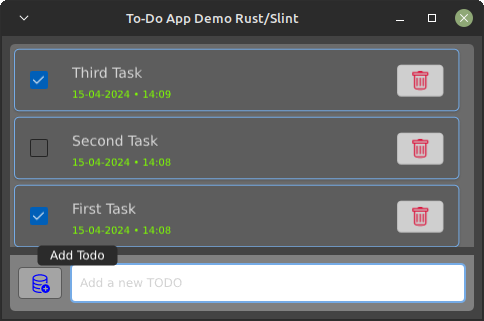
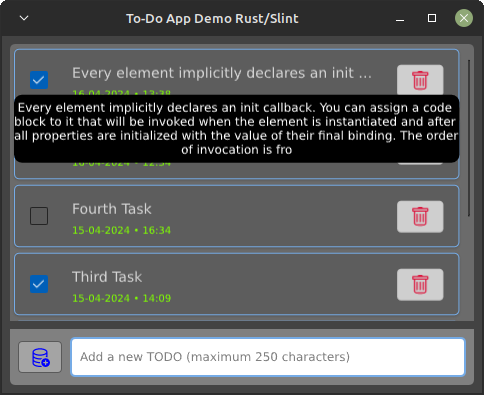
Add popup to see the overflowed text of the item
It is also modified:
- ScrollView viewport height
- created feature of the `callback_declare_put_list_item` function that shortens the description to 250 characters
- improved README.md file information

diff --git a/src/functions_lib.rs b/src/functions_lib.rs
@@ -90,9 +90,17 @@ pub fn callback_declare_put_list_item(app: &AppWindow) {
 
     let weak_app = app.as_weak();
     logic.on_put_list_item(move |idx, mut item| {
+        let desc = item.description.trim();
         // Do not allow empty TO-DO
-        if item.description.to_string().trim() == "" {
+        if desc == "" {
             return;
+        }
+
+        // No more than 250 characters are allowed in the description
+        let diff_length = desc.len() - 250;
+        if diff_length > 0 {
+            let trimmed_description = String::from(&desc[0..desc.len() - diff_length]);
+            item.description = trimmed_description.into();
         }
 
         let current_local: DateTime<Local> = Local::now();

diff --git a/README.md b/README.md
@@ -39,11 +39,13 @@ cargo run ~/.todo.dat # ./target/debug/rust-slint-todolist-demo ~/.todo.dat
 >[!NOTE]
 >***We recommend using an IDE for development, along with the [LSP-based IDE integration for .`slint` files](https://github.com/slint-ui/slint/blob/master/tools/lsp/README.md) provided by the library itself. You can also load this project directly into [Visual Studio Code](https://code.visualstudio.com) and install the [Slint extension](https://marketplace.visualstudio.com/items?itemName=Slint.slint).***
 
-#### Screenshot:
+#### Screenshot
+
+Application window with an element popup (opens on double-click) whose text overflows its box:
 
 <div align="center">
 
-<img src="assets/screenshot.png" width="300">
+<img src="assets/screenshot.png" width="400">
 
 </div>
 
@@ -56,7 +58,7 @@ cargo bundle --release
 ```
 
 >[!NOTE]
->***On Linux, if you install the application using the `.deb` file, a `.todo.dat` file will be generated when you press the add TODO button.***
+>***On Linux, if you install the application using the `.deb` file, a `.todo.dat` file will be generated in the user folder when you press the add TODO button. The path of said file can be established if we edit the application preferences from its launcher.***
 
 ## Next Steps
 
